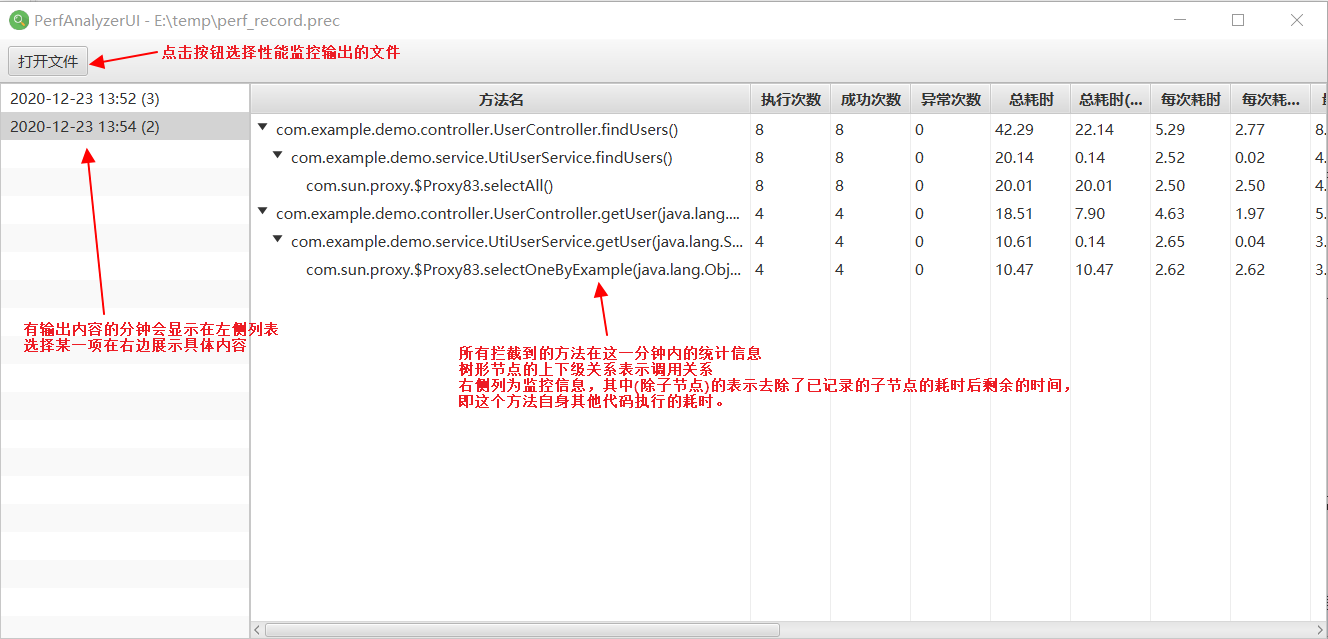
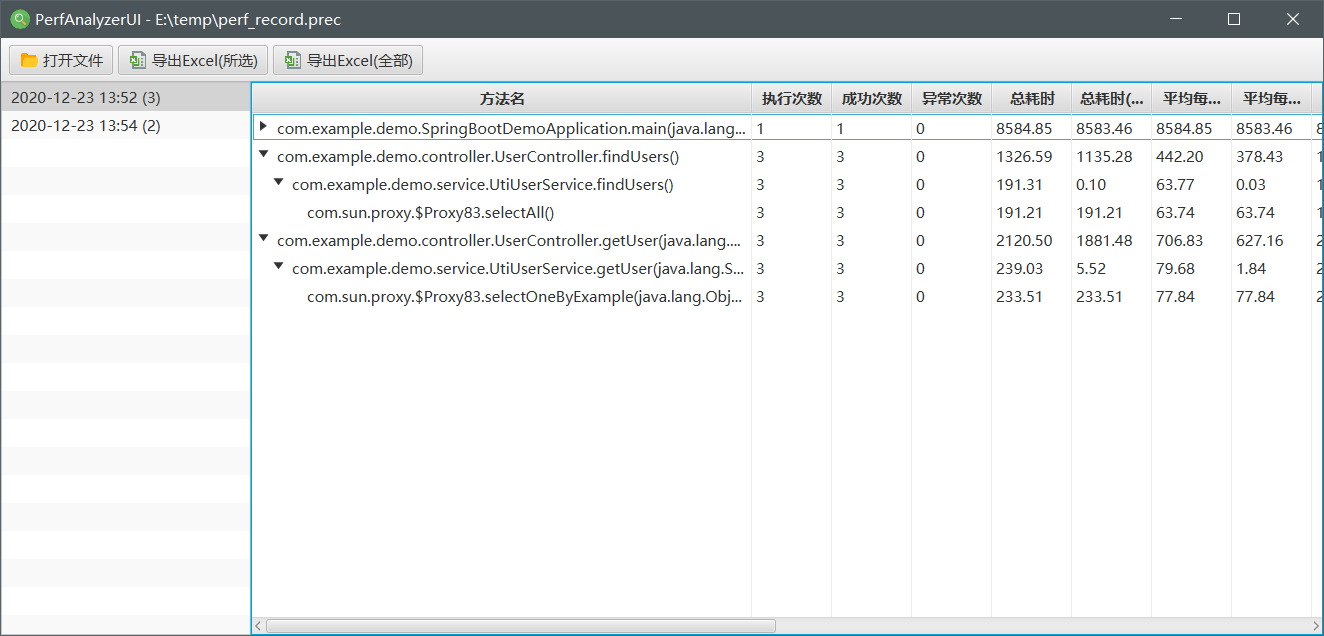
1.1.0版本 UI进行了一定调整，增加了Excel导出的功能

diff --git a/perf-analyzer-ui/src/main/java/perfanalyzer/ui/export/ExcelExporter.java b/perf-analyzer-ui/src/main/java/perfanalyzer/ui/export/ExcelExporter.java
@@ -1,0 +1,143 @@
+package perfanalyzer.ui.export;
+
+import java.beans.BeanInfo;
+import java.beans.Introspector;
+import java.beans.PropertyDescriptor;
+import java.lang.reflect.Method;
+import java.text.SimpleDateFormat;
+import java.util.HashMap;
+import java.util.Map;
+import java.util.concurrent.atomic.AtomicInteger;
+
+import org.apache.poi.ss.usermodel.BorderStyle;
+import org.apache.poi.ss.usermodel.Cell;
+import org.apache.poi.ss.usermodel.CellStyle;
+import org.apache.poi.ss.usermodel.FillPatternType;
+import org.apache.poi.ss.usermodel.Font;
+import org.apache.poi.ss.usermodel.HorizontalAlignment;
+import org.apache.poi.ss.usermodel.IndexedColors;
+import org.apache.poi.ss.usermodel.Row;
+import org.apache.poi.ss.usermodel.Sheet;
+import org.apache.poi.ss.usermodel.Workbook;
+
+import perfanalyzer.core.model.PerfStatisticsGroup;
+import perfanalyzer.core.model.PerfStatisticsNode;
+
+public class ExcelExporter {
+
+	private static final String[] HEADERS = new String[] { "层级", "方法名", "执行次数", "成功次数", "异常次数", "总耗时", "总耗时(除子节点)",
+			"平均每次耗时", "平均每次耗时(除子节点)", "最大单次耗时", "最大单次耗时(除子节点)", "成功总耗时", "成功总耗时(除子节点)", "成功次均耗时", "成功次均耗时(除子节点)",
+			"成功最大耗时", "成功最大耗时(除子节点)", "异常总耗时", "异常总耗时(除子节点)", "异常次均耗时", "异常次均耗时(除子节点)", "异常最大耗时", "异常最大耗时(除子节点)" };
+
+	private static final String[] PROPERTIES = new String[] { "level", "name", "executeCount", "successCount",
+			"errorCount", "totalUseTime", "totalUseTimeExcludeChildren", "avgUseTime", "avgUseTimeExcludeChildren",
+			"maxUseTime", "maxUseTimeExcludeChildren", "successTotalUseTime", "successTotalUseTimeExcludeChildren",
+			"successAvgUseTime", "successAvgUseTimeExcludeChildren", "successMaxUseTime",
+			"successMaxUseTimeExcludeChildren", "errorTotalUseTime", "errorTotalUseTimeExcludeChildren",
+			"errorAvgUseTime", "errorAvgUseTimeExcludeChildren", "errorMaxUseTime", "errorMaxUseTimeExcludeChildren" };
+
+	private Map<String, PropertyDescriptor> propertyDescriptorMap = new HashMap<>();
+
+	public void exportSheet(Workbook wb, PerfStatisticsGroup group) {
+		try {
+			String sheetName = new SimpleDateFormat("yyyyMMddHHmm").format(group.getStatisticsStartTime());
+			Sheet sheet = wb.createSheet(sheetName);
+			writeHeader(wb, sheet, group);
+			writeData(wb, sheet, group);
+			for (int i = 0; i < HEADERS.length; i++) {
+				sheet.autoSizeColumn(i);
+			}
+		} catch (Exception e) {
+			throw new RuntimeException(e);
+		}
+	}
+
+	private void writeHeader(Workbook wb, Sheet sheet, PerfStatisticsGroup group) throws Exception {
+		Row row = sheet.createRow(0);
+		for (int i = 0; i < HEADERS.length; i++) {
+			String header = HEADERS[i];
+			CellStyle style = headerStyle(wb);
+			Cell cell = row.createCell(i);
+			cell.setCellStyle(style);
+			cell.setCellValue(header);
+		}
+		sheet.setRowSumsBelow(false);
+	}
+
+	private CellStyle headerStyle(Workbook wb) {
+		CellStyle style = wb.createCellStyle();
+		style.setAlignment(HorizontalAlignment.LEFT);
+		style.setBorderLeft(BorderStyle.THIN);
+		style.setBorderRight(BorderStyle.THIN);
+		style.setBorderTop(BorderStyle.THIN);
+		style.setBorderBottom(BorderStyle.THIN);
+		style.setFillForegroundColor(IndexedColors.SKY_BLUE.index);
+		style.setFillPattern(FillPatternType.SOLID_FOREGROUND);
+		Font font = wb.createFont();
+		font.setBold(true);
+		style.setFont(font);
+		return style;
+	}
+
+	private void writeData(Workbook wb, Sheet sheet, PerfStatisticsGroup group) throws Exception {
+		AtomicInteger rownum = new AtomicInteger(1);
+		for (PerfStatisticsNode node : group.getRootNodes()) {
+			writeDataRow(wb, sheet, node, 0, rownum);
+		}
+	}
+
+	private void writeDataRow(Workbook wb, Sheet sheet, PerfStatisticsNode node, int level, AtomicInteger rownum)
+			throws Exception {
+		int rn = rownum.getAndIncrement();
+		Row row = sheet.createRow(rn);
+		for (int i = 0; i < PROPERTIES.length; i++) {
+			String property = PROPERTIES[i];
+			String value = "";
+			if ("level".equals(property)) {
+				value = String.valueOf(level);
+			} else {
+				value = getProperty(node, property);
+				if ("name".equals(property)) {
+					for (int j = 0; j < level; j++) {
+						value = "  " + value;
+					}
+				}
+			}
+			CellStyle style = dataStyle(wb);
+			Cell cell = row.createCell(i);
+			cell.setCellStyle(style);
+			cell.setCellValue(value);
+		}
+		if (node.getChildren() != null && !node.getChildren().isEmpty()) {
+			for (PerfStatisticsNode child : node.getChildren()) {
+				writeDataRow(wb, sheet, child, level + 1, rownum);
+			}
+			int rnEnd = rownum.get();
+			sheet.groupRow(rn + 1, rnEnd);
+		}
+	}
+
+	private CellStyle dataStyle(Workbook wb) {
+		CellStyle style = wb.createCellStyle();
+		style.setAlignment(HorizontalAlignment.LEFT);
+		style.setBorderLeft(BorderStyle.THIN);
+		style.setBorderRight(BorderStyle.THIN);
+		style.setBorderTop(BorderStyle.THIN);
+		style.setBorderBottom(BorderStyle.THIN);
+		return style;
+	}
+
+	private String getProperty(PerfStatisticsNode node, String property) throws Exception {
+		if (propertyDescriptorMap.isEmpty()) {
+			BeanInfo beanInfo = Introspector.getBeanInfo(node.getClass());
+			for (PropertyDescriptor pd : beanInfo.getPropertyDescriptors()) {
+				propertyDescriptorMap.put(pd.getName(), pd);
+			}
+		}
+		PropertyDescriptor propertyDescriptor = propertyDescriptorMap.get(property);
+		Method readMethod = propertyDescriptor.getReadMethod();
+		Object value = readMethod.invoke(node);
+		return value == null ? "" : value.toString();
+	}
+
+}

diff --git a/perf-analyzer-ui/src/main/java/perfanalyzer/ui/RootController.java b/perf-analyzer-ui/src/main/java/perfanalyzer/ui/RootController.java
@@ -1,17 +1,20 @@
 package perfanalyzer.ui;
 
 import java.io.File;
+import java.io.FileOutputStream;
 import java.text.SimpleDateFormat;
 import java.util.Date;
 import java.util.List;
 import java.util.stream.Collectors;
+
+import org.apache.poi.ss.usermodel.Workbook;
+import org.apache.poi.xssf.usermodel.XSSFWorkbook;
 
 import javafx.beans.value.ChangeListener;
 import javafx.beans.value.ObservableValue;
 import javafx.event.ActionEvent;
 import javafx.fxml.FXML;
 import javafx.scene.control.Alert;
-import javafx.scene.control.ButtonType;
 import javafx.scene.control.Alert.AlertType;
 import javafx.scene.control.Label;
 import javafx.scene.control.ListView;
@@ -28,6 +31,7 @@ import javafx.util.Callback;
 import perfanalyzer.core.io.PerfIOFileImpl;
 import perfanalyzer.core.model.PerfStatisticsGroup;
 import perfanalyzer.core.model.PerfStatisticsNode;
+import perfanalyzer.ui.export.ExcelExporter;
 
 /**
  * 主界面对应的Controller
@@ -100,8 +104,8 @@ public class RootController {
 		Stage stage = (Stage) root.getScene().getWindow();
 		FileChooser fileChooser = new FileChooser();
 		fileChooser.setTitle("打开文件");
-		fileChooser.getExtensionFilters().addAll(new ExtensionFilter("性能记录文件", "*.prec"),
-				new ExtensionFilter("所有文件", "*.*"));
+		fileChooser.getExtensionFilters().addAll(new ExtensionFilter("性能记录文件(*.prec)", "*.prec"),
+				new ExtensionFilter("所有文件(*.*)", "*.*"));
 		file = fileChooser.showOpenDialog(stage);
 		try {
 			if (file != null) {
@@ -109,6 +113,68 @@ public class RootController {
 			}
 		} catch (Exception e) {
 			e.printStackTrace();
+		}
+	}
+
+	/** 导出Excel(所选)事件 */
+	@FXML
+	public void onExportSelected(ActionEvent event) {
+		Stage stage = (Stage) root.getScene().getWindow();
+		if (groups == null) {
+			showAlert(AlertType.WARNING, "请先打开性能分析文件");
+			return;
+		}
+		if (selectedGroup == null) {
+			showAlert(AlertType.WARNING, "请先选择某一分钟的记录");
+			return;
+		}
+		FileChooser fileChooser = new FileChooser();
+		fileChooser.setTitle("导出Excel文件");
+		fileChooser.getExtensionFilters().addAll(new ExtensionFilter("Excel文件(*.xlsx)", "*.xlsx"),
+				new ExtensionFilter("所有文件(*.*)", "*.*"));
+		file = fileChooser.showSaveDialog(stage);
+		try {
+			if (file != null) {
+				try (Workbook wb = new XSSFWorkbook(); FileOutputStream fout = new FileOutputStream(file)) {
+					ExcelExporter exporter = new ExcelExporter();
+					exporter.exportSheet(wb, selectedGroup);
+					wb.write(new FileOutputStream(file));
+				}
+				showAlert(AlertType.INFORMATION, "导出完成");
+			}
+		} catch (Exception e) {
+			e.printStackTrace();
+			showAlert(AlertType.ERROR, "导出异常：" + e.getClass().getName() + ": " + e.getMessage());
+		}
+	}
+
+	/** 导出Excel(全部)事件 */
+	@FXML
+	public void onExportAll(ActionEvent event) {
+		Stage stage = (Stage) root.getScene().getWindow();
+		if (groups == null) {
+			showAlert(AlertType.WARNING, "请先打开性能分析文件");
+			return;
+		}
+		FileChooser fileChooser = new FileChooser();
+		fileChooser.setTitle("导出Excel文件");
+		fileChooser.getExtensionFilters().addAll(new ExtensionFilter("Excel文件(*.xlsx)", "*.xlsx"),
+				new ExtensionFilter("所有文件(*.*)", "*.*"));
+		file = fileChooser.showSaveDialog(stage);
+		try {
+			if (file != null) {
+				try (Workbook wb = new XSSFWorkbook(); FileOutputStream fout = new FileOutputStream(file)) {
+					ExcelExporter exporter = new ExcelExporter();
+					for (PerfStatisticsGroup group : groups) {
+						exporter.exportSheet(wb, group);
+					}
+					wb.write(new FileOutputStream(file));
+				}
+				showAlert(AlertType.INFORMATION, "导出完成");
+			}
+		} catch (Exception e) {
+			e.printStackTrace();
+			showAlert(AlertType.ERROR, "导出异常：" + e.getClass().getName() + ": " + e.getMessage());
 		}
 	}
 
@@ -120,8 +186,7 @@ public class RootController {
 			stage.setTitle(PerfAnalyzerUIApplication.DEFAULT_TITLE + " - " + file.getCanonicalPath());
 			renderListViewGroups();
 		} else {
-			Alert alert = new Alert(AlertType.ERROR, "文件格式不正确或文件已损坏");
-			alert.showAndWait();
+			showAlert(AlertType.ERROR, "文件格式不正确或文件已损坏");
 		}
 	}
 
@@ -173,6 +238,13 @@ public class RootController {
 		for (PerfStatisticsNode child : node.getChildren()) {
 			buildTree(item, child);
 		}
+	}
+
+	private void showAlert(AlertType type, String message) {
+		Stage stage = (Stage) root.getScene().getWindow();
+		Alert alert = new Alert(type, message);
+		alert.initOwner(stage);
+		alert.showAndWait();
 	}
 
 }

diff --git a/readme.md b/readme.md
@@ -4,9 +4,9 @@
 
 Java工程进行性能调优的时候，最重要的是能有一种方法准确找到性能瓶颈点。
 
-分析性能问题一般也无非是埋点/输出日志/分析这三步，但传统开源方案（如perf4j）需要手工插入大量埋点代码，即使利用aop等方式也需要重新打包发布。而商业解决方案（比如DynaTrace的工具或者XRebel等）需要购买以及部署整套工具，一般来说更适用于正规的生产环境监控。而有时我们可能就是需要对某套程序在测试机器上进行一下压测来分析性能问题。
+分析性能瓶颈一般也无非是埋点/输出日志/分析这三步，但传统开源方案（如perf4j）需要手工插入大量埋点代码，即使利用aop等方式也需要重新打包发布。而商业解决方案（比如DynaTrace或者XRebel等）需要购买以及部署整套系统，一般来说更适用于正规的生产环境监控。可有时我可能就是需要对某套开发中的程序在测试机器（甚至开发用的PC机）上进行一下压测来分析性能问题，要准备整套商用解决方案会比较困难。
 
-这套工程与商用软件类似，使用javaagent来作为埋点方式，监控程序中各个要拦截的方法的性能参数，输出到本地文件中，之后用分析UI工具可以打开输出的文件来查看拦截到的性能分析结果。虽然没有商用软件那么多功能，但使用起来比手工改代码埋点应该要方便很多，对于有时简单地分析一下特定功能应该也足够用了。
+这套工程与商用软件类似，使用javaagent来作为埋点方式。agent监控程序中各个要拦截的方法的性能参数，输出到本地文件中。之后用分析UI工具可以打开输出的文件来查看拦截到的性能分析结果。虽然功能很简单，但使用起来比手工改代码埋点应该要方便很多，对于需要排查一下特定功能的问题时应该也足够用了。
 
 ## 2. 使用说明
 
@@ -51,11 +51,11 @@ aspects:
 ```sh
 java -javaagent:D:\tools\perf-analyzer-agent.jar -jar spring-boot-demo-1.0.0.jar
 ```
-之后启动程序，进行压测。正常情况下一分钟后就会生成outputFile配置项所指定的输出文件了。输出文件每分钟写入前一分钟的所有信息，运行期间是可以复制出来进行查看的。
+之后启动程序，进行压测。正常情况下一分钟后就会生成outputFile配置项所指定的输出文件了。输出文件每分钟写入前一分钟的所有信息，运行期间也是可以复制出来进行查看的。
 
 ### 2.2 分析UI使用
 
-获取到生成的输出文件（上面示例中的perf_record.prec）后，可以将期复制到本地机器上，然后用命令启动分析UI：
+获取到生成的输出文件（上面示例中的perf_record.prec）后，可以将其复制到本地机器上，然后用命令启动分析UI（注：堆内存参数请根据需要调整，要打开越大的文件需要内存越多）：
 
 ```sh
 java -Xmx256m -jar perf-analyzer-ui.jar
@@ -63,11 +63,19 @@ java -Xmx256m -jar perf-analyzer-ui.jar
 
 ![image](doc/images/ui.png)
 
-使用“打开文件”按钮选择性能分析工具生成的prec文件，然后左侧面报会显示所有有性能日志的分钟（分钟右边的括号里面数字是这一分钟记录的根节点个数），选择某一个条目，在右侧面报就会显示这一分钟内被拦截到的方法相关的性能统计数据。
+**上方工具栏**
 
-统计数据整体是一个树形结构，任意一级的树形节点表示某个被拦截到的方法，名称为完整的类名/方法名/参数类型，后面的列则是汇总的执行时效统计信息。树形的层级关系表示方法的调用关系，即父节点为调用方，子节点则为被调用方法。
+- **打开文件**: 点击这个按钮选择性能分析工具生成的.prec文件。
+- **导出Excel(所选)**: 将左侧列表中选择的分钟导出为一个Excel文件。
+- **导出Excel(全部)**: 将整个打开文件的内容导出为一个Excel文件，每分钟的信息为一个sheet。
 
-统计数据右侧列为方法执行的各项统计数据，其中有（除子节点）的，表示去除了已记录的子节点耗时以外，这个方法中其他代码的耗时信息。
+**左侧选择列表**: 打开文件后，展示性能分析文件记录的各个分钟（分钟右边的括号里面数字是详细记录的根节点个数），点击选择一条后在右侧树形表格中展示详细信息。
+
+**右侧树形表格**: 每一级的树形节点表示某个被拦截到的方法，“方法名”列为完整的“类名.方法名(参数类型)”。树形的层级关系表示方法的调用关系，父节点为调用方，子节点为被调用方法。右侧的列为方法执行各项统计数据，其中名称含“（除子节点）”的，表示去除了子节点执行耗时以外的耗时，即这个方法自身其他代码的耗时信息。
+
+**导出的Excel**: 大致也保留了树形列表的样子，每分钟导出成一个sheet。
+
+![image](doc/images/export_excel.png)
 
 ## 3. 程序说明
 
